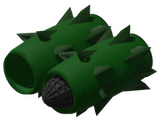
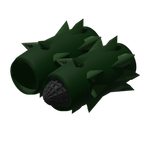
Sprite updates

diff --git a/needs-redesign.md b/needs-redesign.md
@@ -1,0 +1,17 @@
+**Redesign Completely**
+
+Ruksay Missile/Missile Launcher
+Shield generators
+Altaedin Laser?
+
+------
+
+**Tone down brightness**
+
+~~Tone down brightness of Rukjay Missile Launcher~~
+
+_Energy generators_
+Jahgir
+~~Tawasitaq~~
+~~Watsaq~~
+~~Daltaq~~
